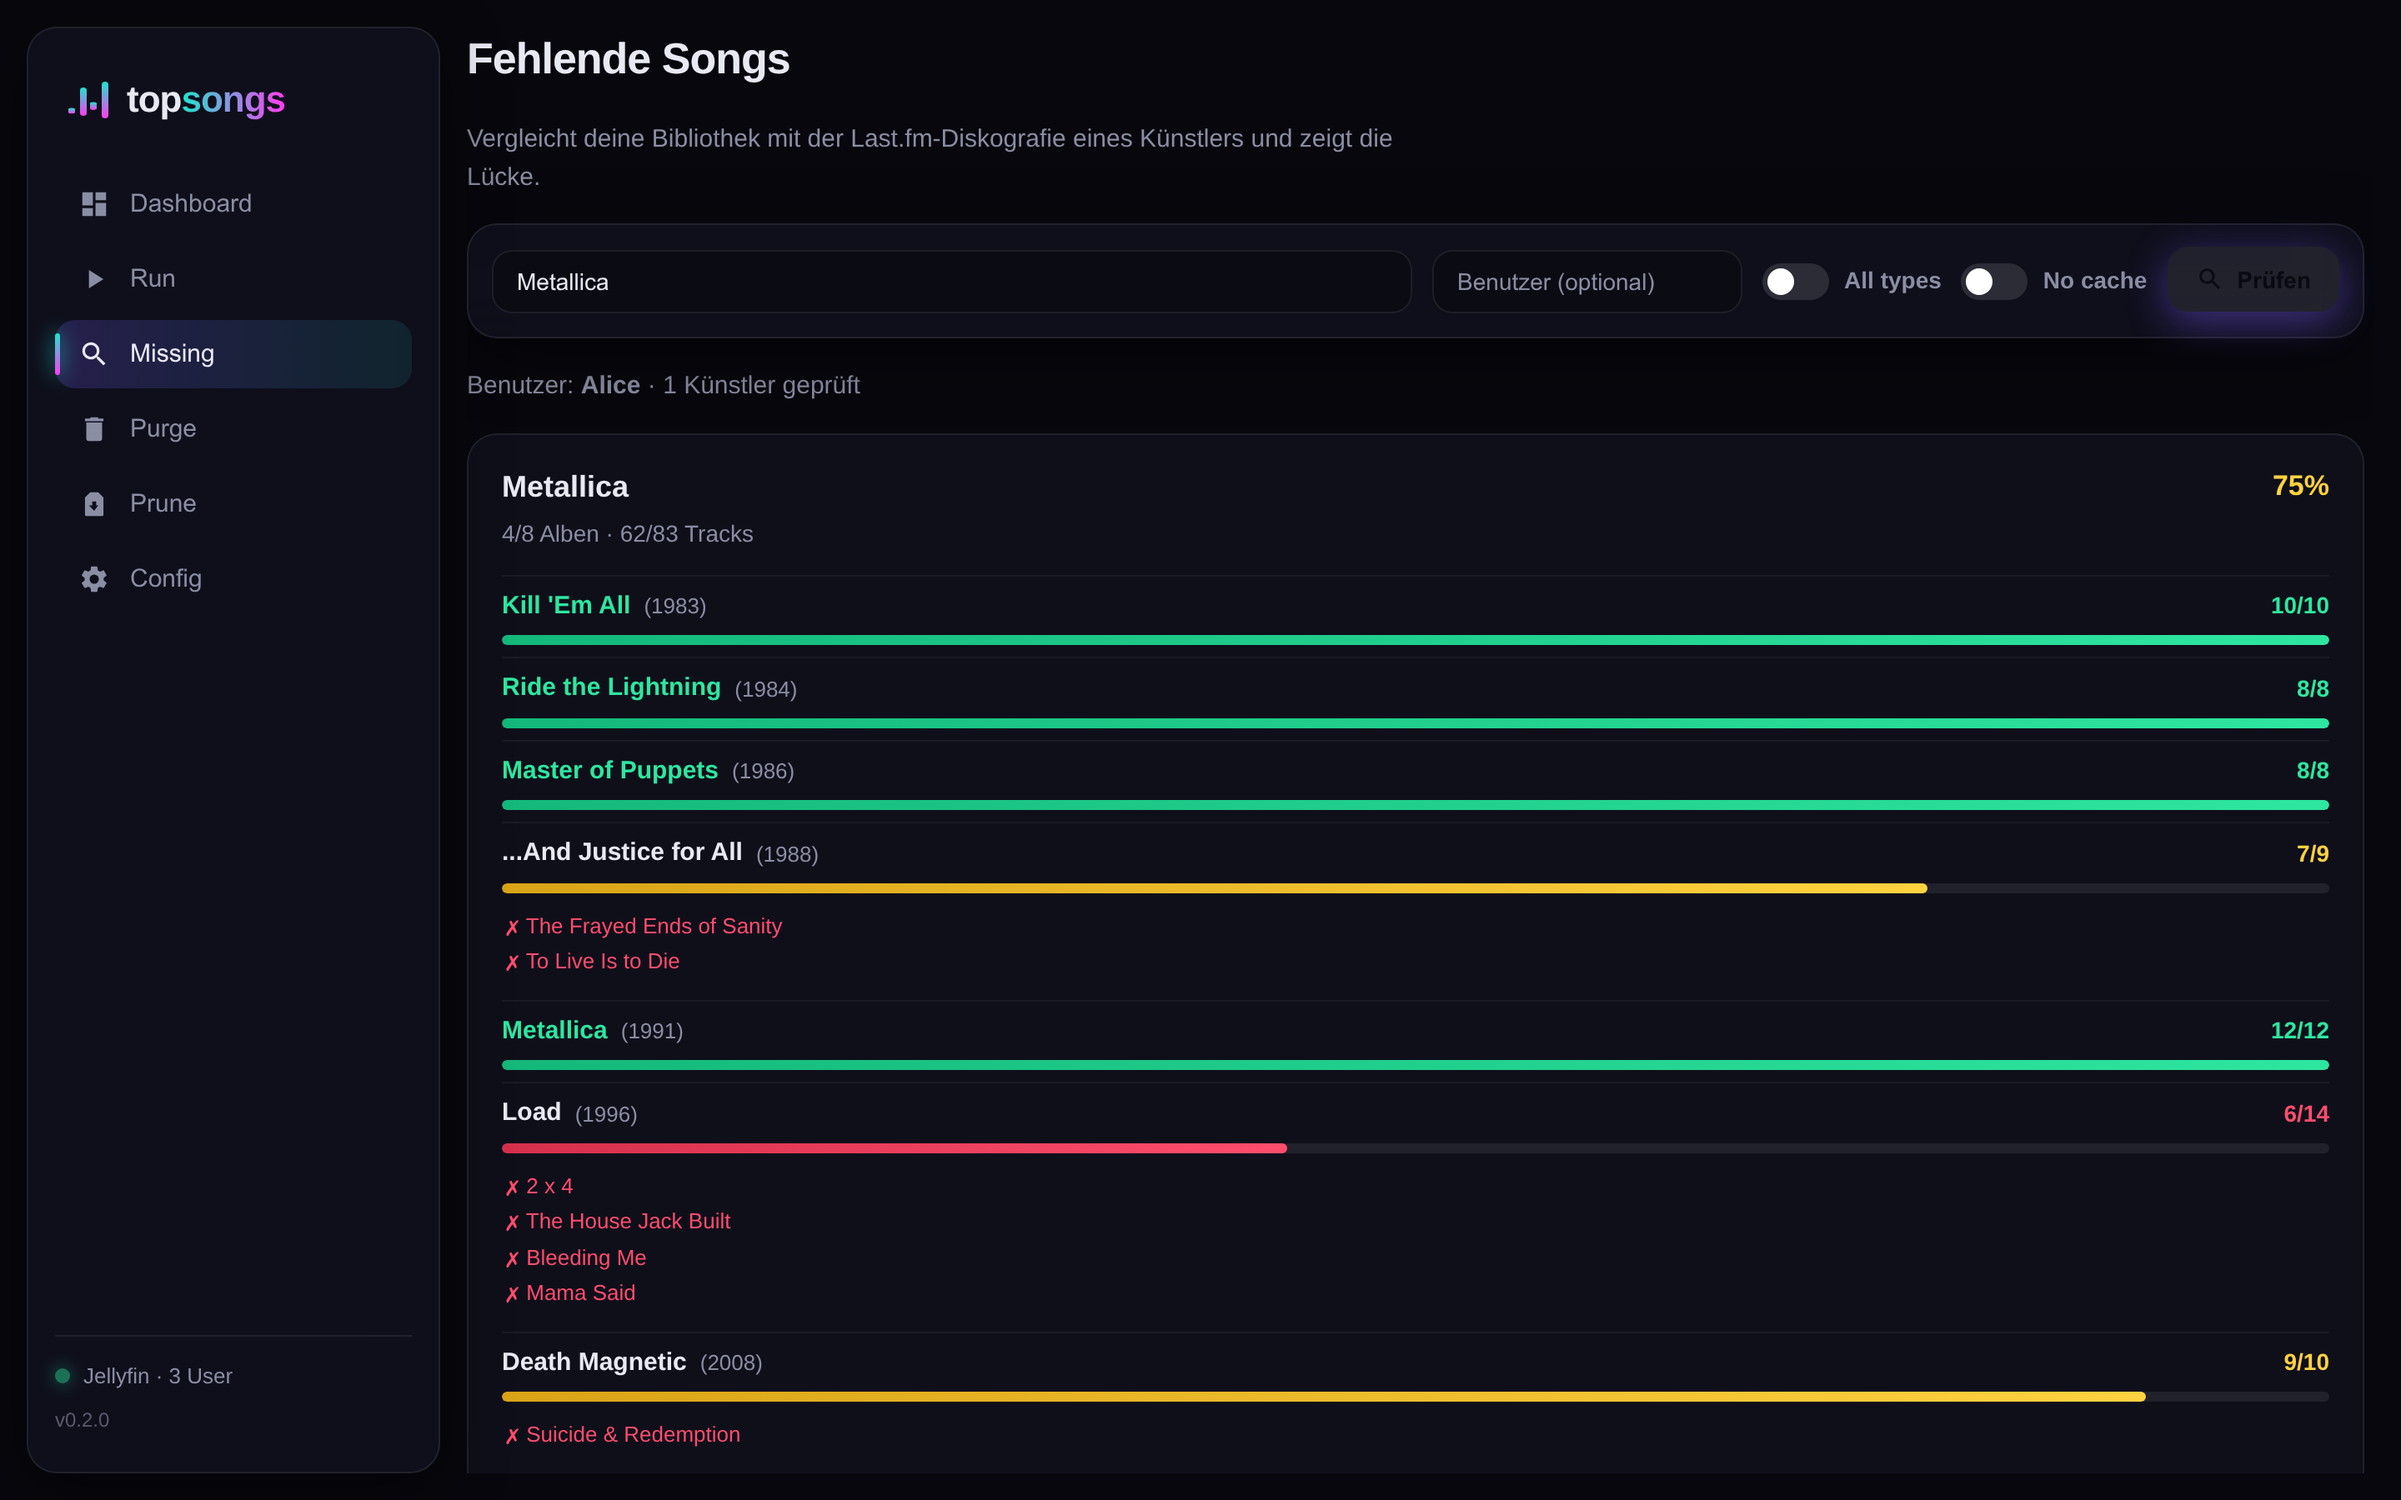
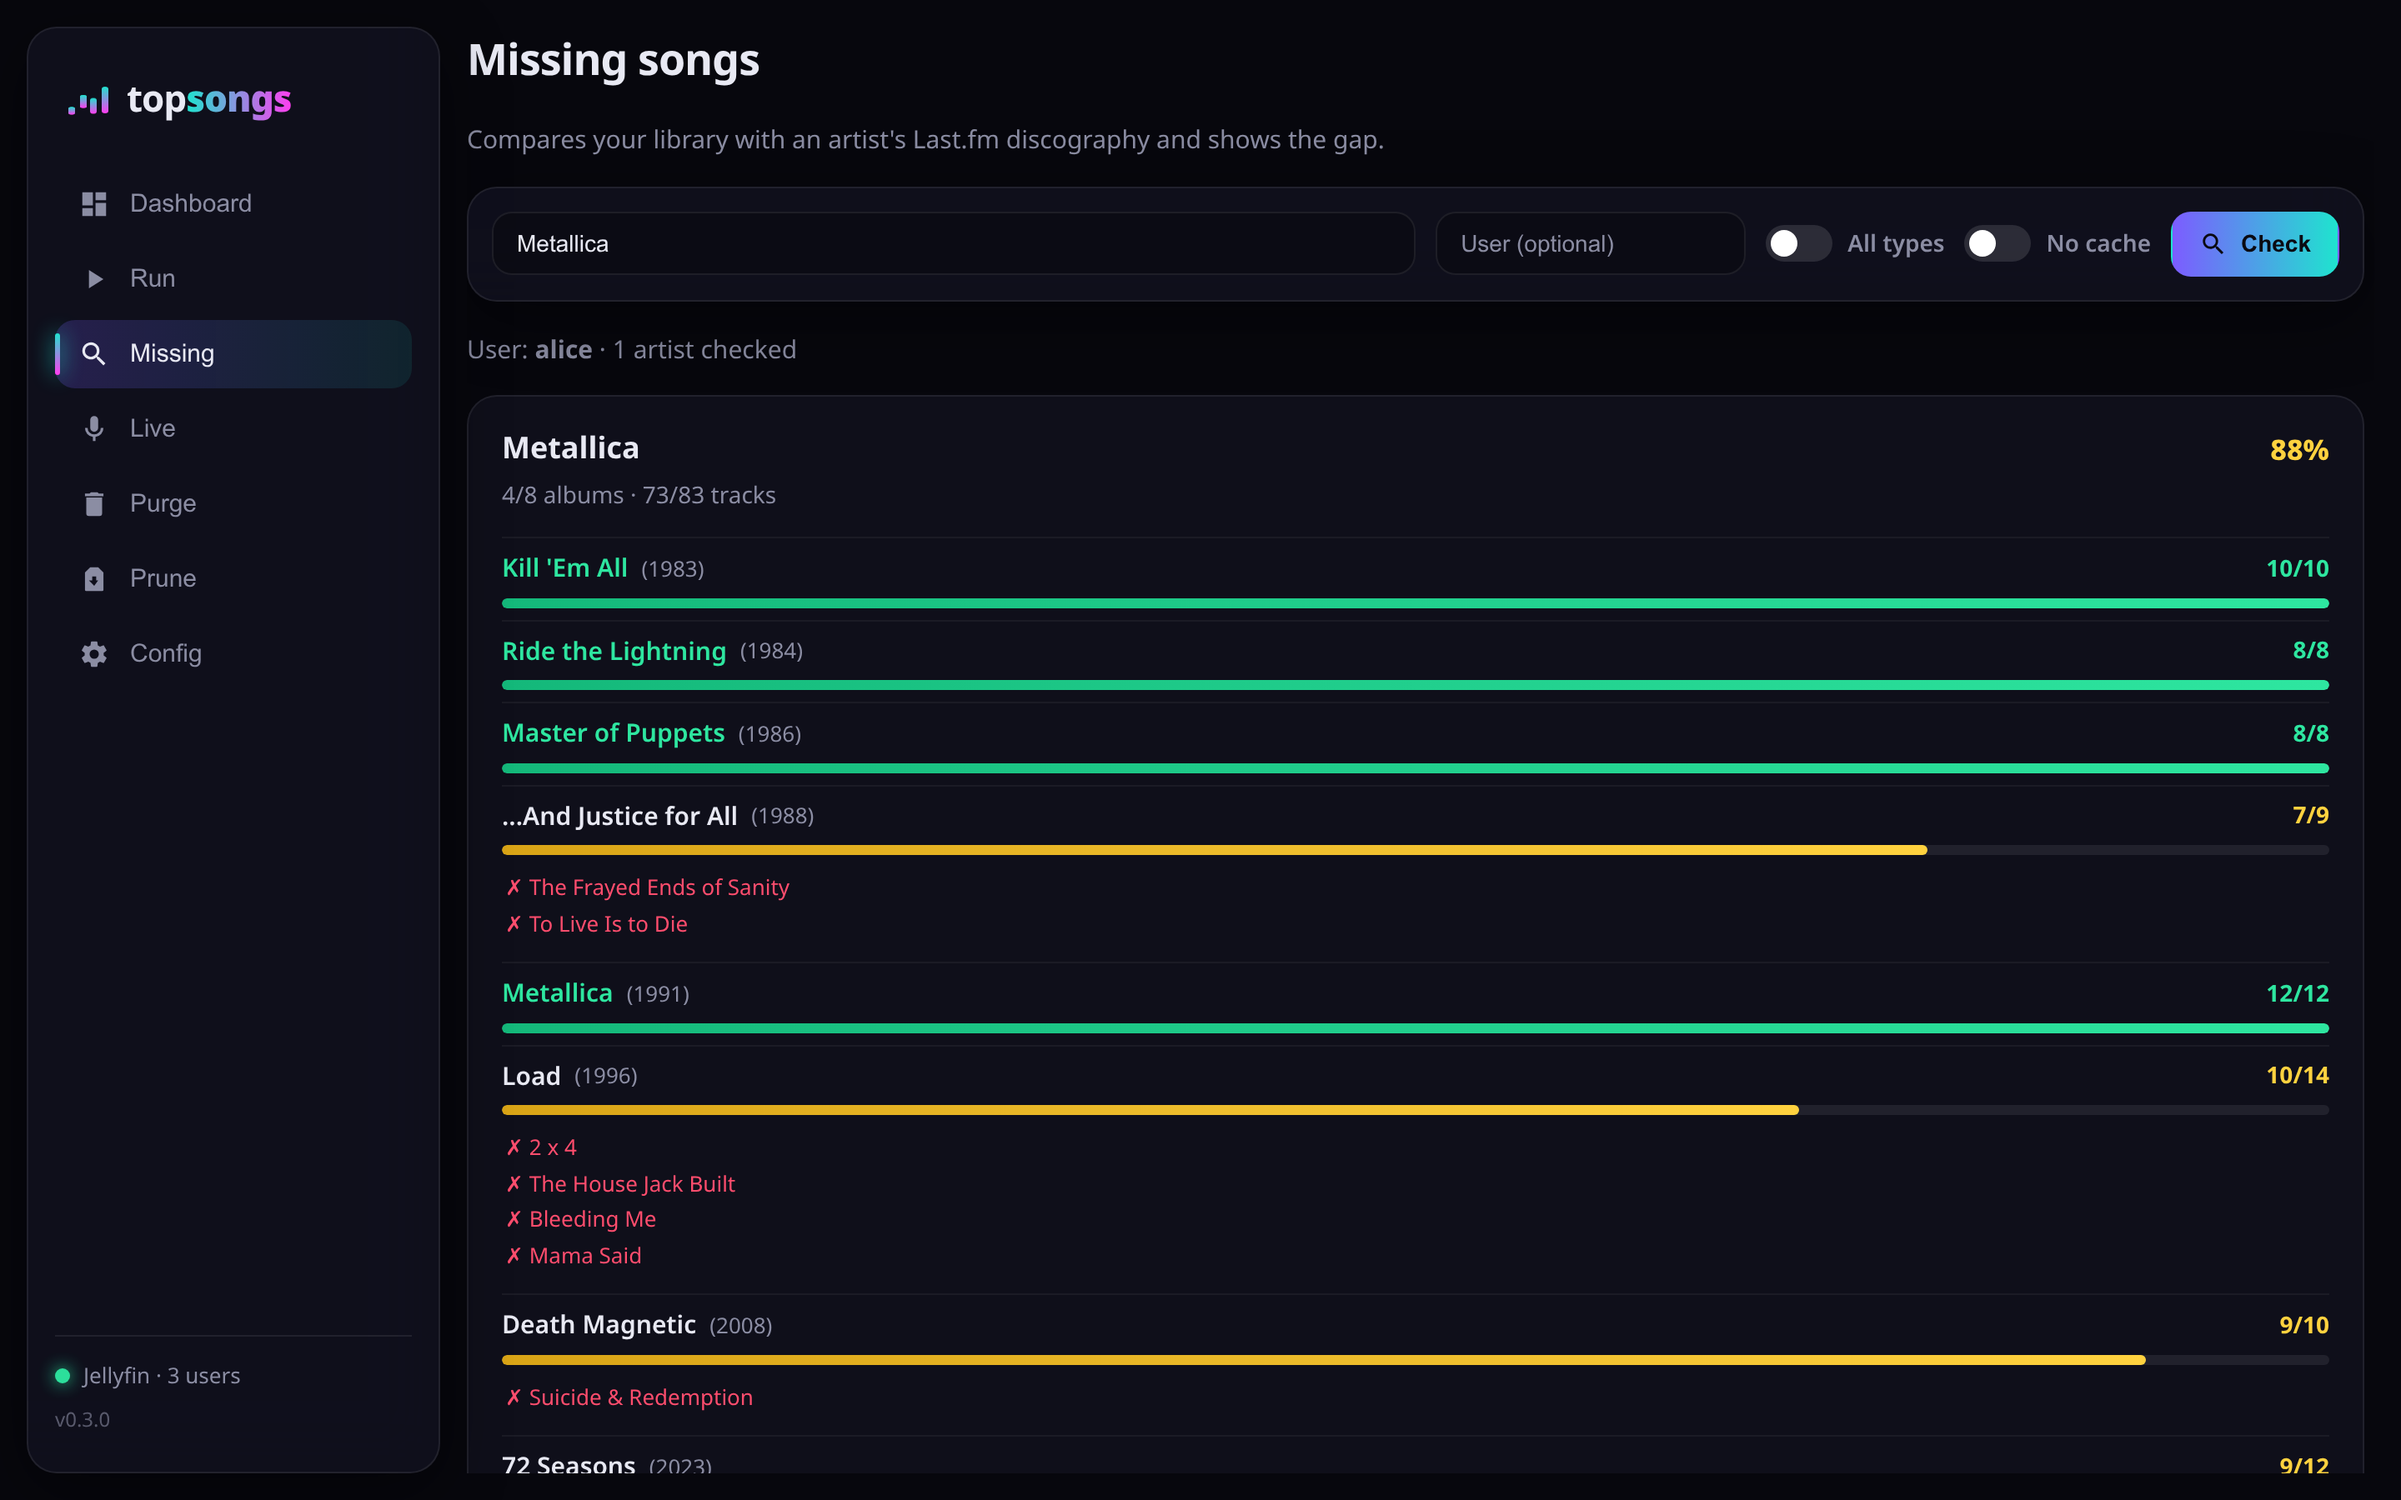
docs: README and screenshots for v0.3.0

diff --git a/topsongs/web/static/app.js b/topsongs/web/static/app.js
@@ -296,7 +296,10 @@ async function runMissing() {
   let data;
   try { data = await post("/api/missing", payload); } catch (e) { body.innerHTML = `<div class="empty err">${esc(e.message)}</div>`; return; }
   body.innerHTML = "";
-  const hdr = el("p", "muted", t("User: <b>{user}</b> · {count} artists checked", { user: esc(data.user), count: data.gaps.length }));
+  const checked = data.gaps.length === 1
+    ? t("User: <b>{user}</b> · 1 artist checked", { user: esc(data.user) })
+    : t("User: <b>{user}</b> · {count} artists checked", { user: esc(data.user), count: data.gaps.length });
+  const hdr = el("p", "muted", checked);
   body.appendChild(hdr);
   if (data.total) body.appendChild(gapCard(data.total, t("Total"), true));
   for (const g of data.gaps) body.appendChild(gapCard(g, null, false));

diff --git a/README.md b/README.md
@@ -15,7 +15,7 @@ A Jellyfin music library knows your artists but has no "best of this artist" pla
 
 ## Highlights
 
-- **Non-destructive.** `topsongs` only creates and deletes playlists. It never downloads music, modifies tracks, tags, files, or albums — your library is left exactly as it was.
+- **Non-destructive.** `topsongs` only works on playlists: it creates, tags and deletes its own, and renames them only when you prune. It never downloads music or changes tracks, their metadata, files, or albums — your library is left exactly as it was.
 - **Scoped, predictable cleanup.** It marks every playlist it creates with a Jellyfin tag and only ever replaces or deletes tagged ones. Everything else in Jellyfin — including playlists you made by hand, even under the same name — is invisible to it.
 - **Safe to preview.** `DRY_RUN=true` runs a full planning pass and logs every action it would take, while writing nothing to Jellyfin.
 - **Failure isolation.** One artist's failure does not abort the rest of the run, and the failed artist's existing playlist is kept — a transient Last.fm hiccup never costs you data.
@@ -69,14 +69,14 @@ docker compose logs -f app
 
 The container also serves a web dashboard on port `8080` (the `appdata/docker-compose.yml` example publishes it). Open `http://<host>:8080` and you get every topsongs action in one place:
 
-- **Dashboard** — the last run's status and counts, the next scheduled run, the run-lock state, and Jellyfin reachability at a glance.
+- **Dashboard** — the last run's status and counts, the next scheduled run, the run-lock state, the tag that marks the playlists, and Jellyfin reachability at a glance.
 - **Run** — trigger a playlist refresh (with an optional dry run) and watch the logs stream live; it is the same job cron runs nightly, and the run lock still prevents overlap.
 - **Missing** — the [missing-songs gap report](#finding-missing-songs) rendered with per-album coverage bars.
 - **Live** — put together a [live playlist](#live-playlists): pick concerts with autocompleted filters, preview the song order, then create it for one, several or all users, or as one public playlist. Shown when `SETLISTFM_API_KEY` is set.
 - **Purge** and **Prune** — preview exactly what would be deleted, then execute behind a confirmation.
 - **Config** — the effective settings of the running container (secrets are redacted).
 
-It runs as a small FastAPI app started by the `topsongs-web` console script, in the same container as cron. The dashboard is unauthenticated by default, which is fine behind a reverse proxy or on a trusted network; set `TOPSONGS_WEB_TOKEN` to require that token (sent as a bearer token) on every API call. `TOPSONGS_WEB_HOST` and `TOPSONGS_WEB_PORT` change the bind address and port.
+It runs as a small FastAPI app started by the `topsongs-web` console script, in the same container as cron. The dashboard is unauthenticated by default, which is fine behind a reverse proxy or on a trusted network; set `TOPSONGS_WEB_TOKEN` to require that token (sent as a bearer token) on every API call. `TOPSONGS_WEB_HOST` and `TOPSONGS_WEB_PORT` change the bind address and port. The dashboard speaks English or German, following `TOPSONGS_LANGUAGE`.
 
 > [!WARNING]
 > The dashboard can delete playlists (purge/prune), create live playlists and trigger runs. Do not expose port `8080` to an untrusted network without setting `TOPSONGS_WEB_TOKEN` or putting an authenticating proxy in front of it.
@@ -144,6 +144,9 @@ CRON_SCHEDULE=0 3 * * *
 RUN_ON_STARTUP=false
 SETLISTFM_API_KEY=
 LIVE_PLAYLIST_PREFIX="Live - "
+TOPSONGS_WEB_HOST=0.0.0.0
+TOPSONGS_WEB_PORT=8080
+TOPSONGS_WEB_TOKEN=
 ```
 
 `JELLYFIN_URL`, `JELLYFIN_API_KEY`, and `LASTFM_API_KEY` are required; everything else has a working default.
@@ -296,6 +299,12 @@ topsongs-live --setlist https://www.setlist.fm/setlist/metallica/2026/olympiasta
 
 The dashboard's **Live** view does the same with a form: the artist field suggests library artists by the start of their name, the filters autocomplete from the artist's last concerts, and the preview updates as you pick concerts and the minimum share. Below the preview you pick the users, or switch on *public* for one playlist everyone sees; the browser remembers the users you picked last.
 
+<div align="center">
+<img src="docs/screenshot-live.png" alt="Live view: concerts from setlist.fm, a mix preview with play counts and library matches, and the users to create the playlist for" width="80%">
+<br>
+<sub><em>A mix of three concerts, one per venue: songs played at most of them come first.</em></sub>
+</div>
+
 The artist must be in the library; its songs are matched against the user's tracks the same way the nightly run matches Last.fm's, and songs missing from the library are listed but skipped. Each playlist's description links the setlist.fm pages it was built from. setlist.fm allows about two requests a second and 1,440 a day for a standard key; `topsongs` spaces its requests half a second apart and keeps answers for ten minutes, as the setlist.fm API terms only allow short-term caching.
 
 In a Docker Compose deployment, run it inside the container with the `appdata/topsongs-live` wrapper, which forwards all arguments.
@@ -353,7 +362,7 @@ The console entry points are `topsongs` (also `run-topsongs`) for a playlist run
 
 ## Runtime files and logs
 
-Docker Compose mounts `appdata/state` to `/app/state`. The state directory holds the run summary, the lockfile, and the `topsongs-missing` discography cache.
+Docker Compose mounts `appdata/state` to `/app/state`. The state directory holds the run summary, the lockfile, the `topsongs-missing` discography cache, and the library's artist names for the dashboard's autocomplete (`artists_cache.json`, refreshed hourly).
 
 **Run summary.** Each playlist run writes a compact summary to `STATE_DIR/last_run.txt` with start and finish times, user/artist/playlist/failure counts, and two local-track counts: `unmatched_local_track_count` (tracks the provider's top list does not cover) and `duplicate_local_track_count` (tracks dropped because an identically-titled copy is already included; distinct editions such as live or remaster versions are kept as their own entries).
 
